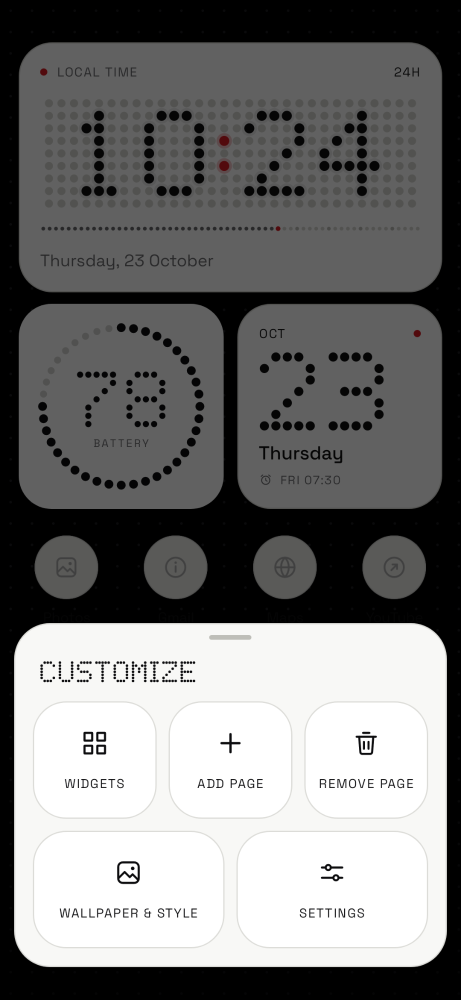
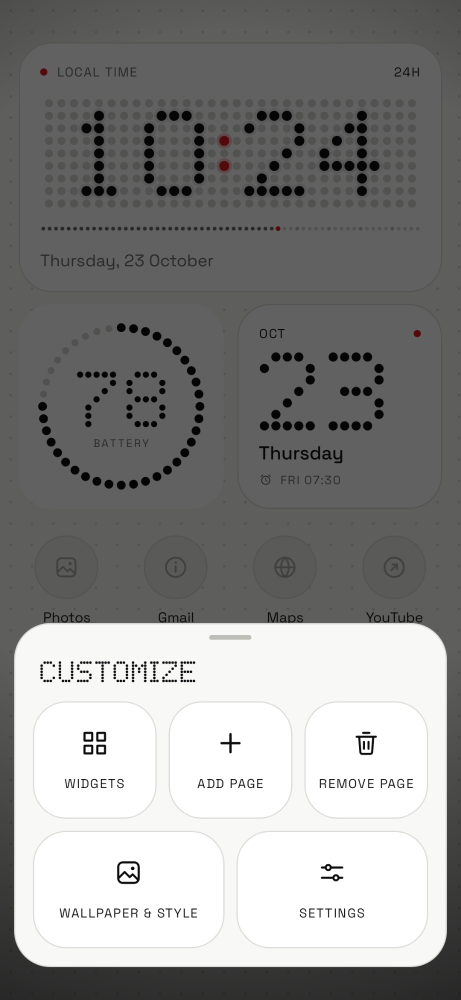
feat: launch v8.7 with UI contrast fixes and updated screenshots

Changed region(s): [[0.0, 0.0, 1.0, 1.0]]

diff --git a/app/src/test/java/com/nothinglauncher/ScreensTest.kt b/app/src/test/java/com/nothinglauncher/ScreensTest.kt
@@ -100,7 +100,18 @@ class ScreensTest {
             AppInfo(label, "com.example.${label.lowercase().replace(" ", "")}", ".Main", fakeIcon(color, glyph, style))
         }
 
-    private fun screen(content: View, background: Drawable = DotGridDrawable(context.resources.displayMetrics.density)): View {
+    private fun defaultBackground(): Drawable {
+        val bg = ContextCompat.getColor(context, R.color.nothing_bg)
+        val dot = ContextCompat.getColor(context, R.color.dot_off)
+        return DotGridDrawable(context.resources.displayMetrics.density, backgroundColor = bg, dotColor = dot)
+    }
+
+    private fun elementLp(): LinearLayout.LayoutParams =
+        LinearLayout.LayoutParams(ViewGroup.LayoutParams.MATCH_PARENT, ViewGroup.LayoutParams.WRAP_CONTENT).apply {
+            topMargin = dp(10)
+        }
+
+    private fun screen(content: View, background: Drawable = defaultBackground()): View {
         val root = FrameLayout(context)
         root.background = background
         root.addView(content, FrameLayout.LayoutParams(ViewGroup.LayoutParams.MATCH_PARENT, ViewGroup.LayoutParams.MATCH_PARENT))
@@ -206,16 +217,14 @@ class ScreensTest {
         b.bottomBar.updatePadding(bottom = dp(16 + 12))
 
         val pageB = ItemWorkspacePageBinding.inflate(LayoutInflater.from(context))
-        val density = context.resources.displayMetrics.density
-        val elLp = LinearLayout.LayoutParams(ViewGroup.LayoutParams.MATCH_PARENT, ViewGroup.LayoutParams.WRAP_CONTENT).apply {
-            topMargin = (10 * density).toInt()
-        }
 
         val weatherB = WidgetWeatherBinding.inflate(LayoutInflater.from(context), pageB.elementsContainer, false)
-        pageB.elementsContainer.addView(weatherB.root, elLp)
+        pageB.elementsContainer.addView(weatherB.root, elementLp())
 
         val togB = WidgetQuickTogglesBinding.inflate(LayoutInflater.from(context), pageB.elementsContainer, false)
-        pageB.elementsContainer.addView(togB.root, elLp)
+        val accent = ContextCompat.getColor(context, R.color.nothing_red)
+        togB.togglesDot.background?.mutate()?.setTint(accent)
+        pageB.elementsContainer.addView(togB.root, elementLp())
 
         val all = apps()
         val adapter = HomeIconAdapter({ _, _ -> }, { _, _ -> })
@@ -243,19 +252,15 @@ class ScreensTest {
         b.bottomBar.updatePadding(bottom = dp(16 + 12))
 
         val pageB = ItemWorkspacePageBinding.inflate(LayoutInflater.from(context))
-        val density = context.resources.displayMetrics.density
-        val elLp = LinearLayout.LayoutParams(ViewGroup.LayoutParams.MATCH_PARENT, ViewGroup.LayoutParams.WRAP_CONTENT).apply {
-            topMargin = (10 * density).toInt()
-        }
 
         val stB = WidgetScreenTimeBinding.inflate(LayoutInflater.from(context), pageB.elementsContainer, false)
-        pageB.elementsContainer.addView(stB.root, elLp)
+        pageB.elementsContainer.addView(stB.root, elementLp())
 
         val storB = WidgetStorageBinding.inflate(LayoutInflater.from(context), pageB.elementsContainer, false)
-        pageB.elementsContainer.addView(storB.root, elLp)
+        pageB.elementsContainer.addView(storB.root, elementLp())
 
         val wcB = WidgetWorldClockBinding.inflate(LayoutInflater.from(context), pageB.elementsContainer, false)
-        pageB.elementsContainer.addView(wcB.root, elLp)
+        pageB.elementsContainer.addView(wcB.root, elementLp())
 
         val all = apps()
         val adapter = HomeIconAdapter({ _, _ -> }, { _, _ -> })
@@ -375,7 +380,7 @@ class ScreensTest {
 
     @Test fun settings() {
         val b = ActivitySettingsBinding.inflate(LayoutInflater.from(context))
-        b.settingsRoot.background = DotGridDrawable(context.resources.displayMetrics.density)
+        b.settingsRoot.background = defaultBackground()
         b.settingsColumn.updatePadding(top = dp(24))
         val list = b.settingsList
         val accent = ContextCompat.getColor(context, R.color.nothing_red)
@@ -394,7 +399,7 @@ class ScreensTest {
 
     @Test fun settingsLower() {
         val b = ActivitySettingsBinding.inflate(LayoutInflater.from(context))
-        b.settingsRoot.background = DotGridDrawable(context.resources.displayMetrics.density)
+        b.settingsRoot.background = defaultBackground()
         val list = b.settingsList
         val accent = ContextCompat.getColor(context, R.color.nothing_red)
         b.settingsTitle.isVisible = false
@@ -408,7 +413,7 @@ class ScreensTest {
         SettingsUi.card(list).also { card ->
             SettingsUi.actionRow(card, "Default home app", "Not a Thing is your home screen", trailingIcon = R.drawable.ic_home) {}
             SettingsUi.actionRow(card, "Reset layout", "Restore the default home and dock apps", destructive = true, trailingIcon = R.drawable.ic_refresh) {}
-            SettingsUi.infoRow(card, "About", "Version 8.0 · Type set in Space Mono & Space Grotesk (SIL OFL)")
+            SettingsUi.infoRow(card, "About", "Version 8.7 · Type set in Space Mono & Space Grotesk (SIL OFL)")
         }
         paparazzi.snapshot(b.root)
     }
@@ -461,12 +466,20 @@ class ScreensTest {
         val b = WidgetBatteryDotsBinding.inflate(LayoutInflater.from(context))
         b.batteryDotsView.batteryLevel = 82
         b.batteryDotsView.isCharging = true
-        paparazzi.snapshot(screen(b.root))
+        val container = FrameLayout(context).apply {
+            setPadding(dp(16), dp(24), dp(16), dp(16))
+            addView(b.root, FrameLayout.LayoutParams(ViewGroup.LayoutParams.MATCH_PARENT, ViewGroup.LayoutParams.WRAP_CONTENT))
+        }
+        paparazzi.snapshot(screen(container))
     }
 
     @Test fun widgetQuote() {
         val b = WidgetQuoteBinding.inflate(LayoutInflater.from(context))
         b.quoteDotsView.quoteText = "NOTHING BUT TIME"
-        paparazzi.snapshot(screen(b.root))
+        val container = FrameLayout(context).apply {
+            setPadding(dp(16), dp(24), dp(16), dp(16))
+            addView(b.root, FrameLayout.LayoutParams(ViewGroup.LayoutParams.MATCH_PARENT, ViewGroup.LayoutParams.WRAP_CONTENT))
+        }
+        paparazzi.snapshot(screen(container))
     }
 }

diff --git a/app/src/main/java/com/nothinglauncher/DockView.kt b/app/src/main/java/com/nothinglauncher/DockView.kt
@@ -28,6 +28,15 @@ class DockView @JvmOverloads constructor(
             }
         }
 
+    var labelShadow: Boolean = false
+        set(value) {
+            if (field != value) {
+                field = value
+                current = emptyList() // force rebuild
+                lastApps?.let { setApps(it) }
+            }
+        }
+
     private val iconSize = resources.getDimensionPixelSize(R.dimen.dock_icon_size)
     private var current: List<String> = emptyList()
     private var lastApps: List<AppInfo>? = null
@@ -69,7 +78,13 @@ class DockView @JvmOverloads constructor(
                 val label = TextView(context).apply {
                     text = app.label
                     textSize = 10f
-                    setTextColor(ContextCompat.getColor(context, R.color.text_primary))
+                    if (labelShadow) {
+                        setTextColor(android.graphics.Color.WHITE)
+                        setShadowLayer(6f, 0f, 1f, 0xCC000000.toInt())
+                    } else {
+                        setTextColor(ContextCompat.getColor(context, R.color.text_primary))
+                        setShadowLayer(0f, 0f, 0f, 0)
+                    }
                     gravity = Gravity.CENTER
                     maxLines = 1
                     ellipsize = TextUtils.TruncateAt.END

diff --git a/app/src/main/java/com/nothinglauncher/HomeIconAdapter.kt b/app/src/main/java/com/nothinglauncher/HomeIconAdapter.kt
@@ -135,8 +135,14 @@ class HomeIconAdapter(
 
     companion object {
         fun applyLabelShadow(binding: ItemAppBinding, enabled: Boolean) {
-            if (enabled) binding.appLabel.setShadowLayer(6f, 0f, 1f, 0xCC000000.toInt())
-            else binding.appLabel.setShadowLayer(0f, 0f, 0f, 0)
+            if (enabled) {
+                binding.appLabel.setTextColor(android.graphics.Color.WHITE)
+                binding.appLabel.setShadowLayer(6f, 0f, 1f, 0xCC000000.toInt())
+            }
+            else {
+                binding.appLabel.setTextColor(androidx.core.content.ContextCompat.getColor(binding.root.context, R.color.text_primary))
+                binding.appLabel.setShadowLayer(0f, 0f, 0f, 0)
+            }
         }
     }
 }

diff --git a/app/src/main/java/com/nothinglauncher/HomeFragment.kt b/app/src/main/java/com/nothinglauncher/HomeFragment.kt
@@ -210,6 +210,7 @@ class HomeFragment : Fragment() {
         val prefs = viewModel.prefs
         binding.pageIndicator.accentColor = prefs.accentColor()
         binding.dock.showLabels = prefs.showDockLabels
+        binding.dock.labelShadow = prefs.background == LauncherPrefs.Background.WALLPAPER
         workspaceAdapter.notifyDataSetChanged()
     }
 
